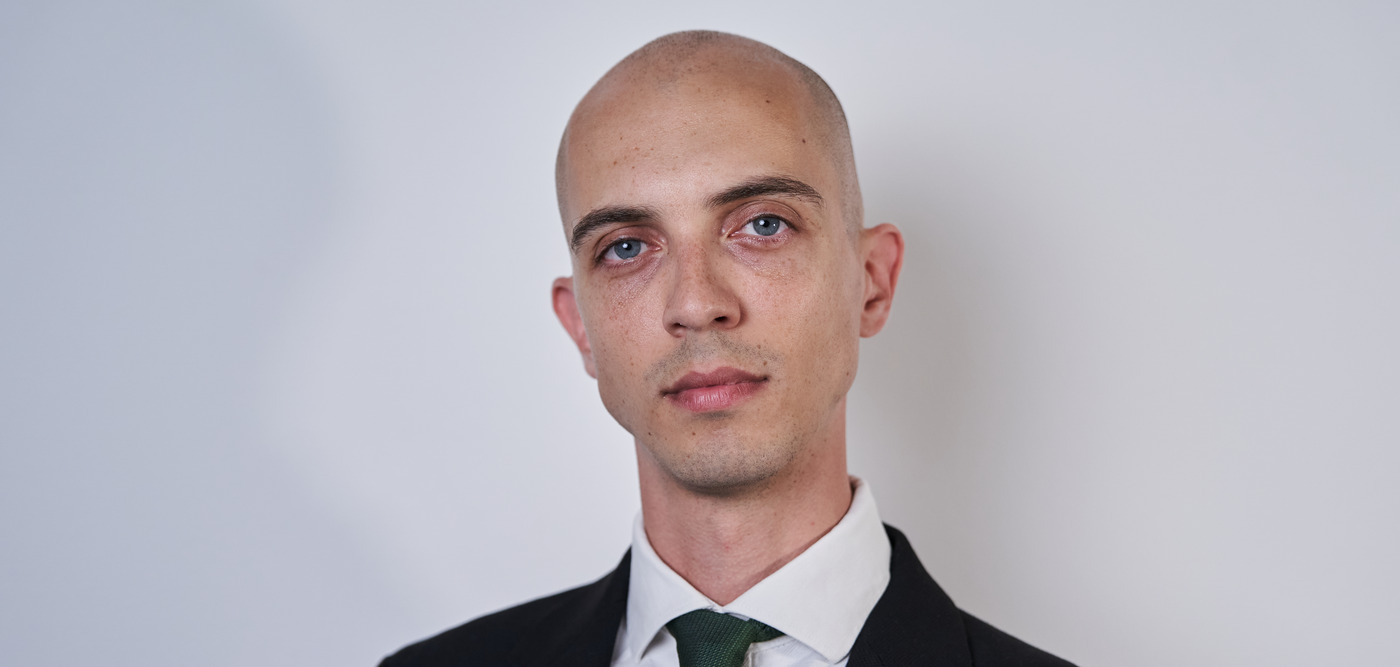
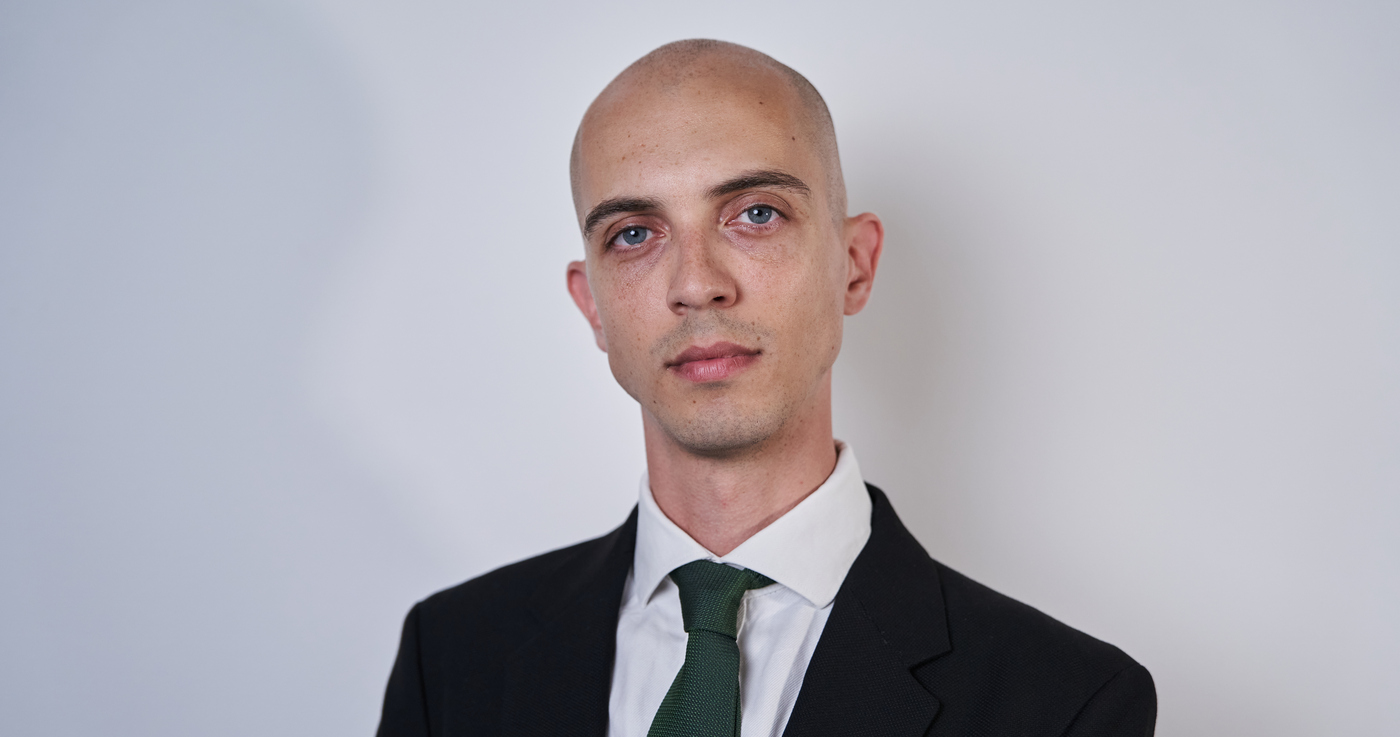
mostly fixed

Changed region(s): [[0.2457, 0.1199, 0.8293, 1.0], [0.43, 0.03, 0.5836, 0.1199]]

diff --git a/cv.tex b/cv.tex
@@ -44,9 +44,9 @@
   \vspace{0.65mm}%
   \noindent
   \begin{tikzpicture}[x=1mm,y=1mm,baseline=-1.6mm]
-    \fill[cvteal] (0,0) -- (7,3.6) -- (0,7.2) -- (2.4,3.6) -- cycle;
+    \fill[cvteal] (0,0) -- (5.7,3.6) -- (0,7.2) -- (2.0,3.6) -- cycle;
   \end{tikzpicture}%
-  \hspace{2mm}{\sans\bfseries\fontsize{14.5}{15.5}\selectfont #1}\par
+  \hspace{1.75mm}{\sans\bfseries\fontsize{14.5}{15.5}\selectfont #1}\par
   \vspace{0.65mm}%
 }
 
@@ -85,8 +85,8 @@
   \noindent
   \begin{minipage}[t]{7mm}\vspace{0pt}#1\end{minipage}%
   \hspace{1.1mm}%
-  \begin{minipage}[t]{44.5mm}\vspace{0pt}\fontsize{7.85}{9.05}\selectfont #2\end{minipage}%
-  \par\vspace{0.18mm}
+  \begin{minipage}[t]{45.0mm}\vspace{0pt}\fontsize{10.2}{14.8}\selectfont #2\end{minipage}%
+  \par\vspace{0.95mm}
 }
 
 \newcommand{\mainsection}[1]{%
@@ -95,7 +95,7 @@
     \textcolor{cvteal}{\rule{0.25\linewidth}{0.65pt}}%
     \hspace{2.1mm}{\color{cvteal}\wide{\fontsize{17.2}{18}\selectfont #1}}%
     \hspace{2.1mm}\textcolor{cvteal}{\rule{0.25\linewidth}{0.65pt}}%
-  }\par\vspace{2.0mm}
+  }\par\vspace{2.9mm}
 }
 
 \newcommand{\entry}[5]{%
@@ -105,15 +105,15 @@
   \vspace{0.7mm}
   {\fontsize{11.0}{12.0}\selectfont #3\textcolor{cvtext}{\ - #4}}\par
   \vspace{0.8mm}
-  {\color{cvtext}\fontsize{9.85}{11.95}\selectfont\justifying #5\par}
+  {\color{cvtext}\fontsize{10.03}{13.55}\selectfont\justifying\noindent #5\par}
 }
 
 \newcommand{\divider}{%
-  \vspace{1.5mm}\noindent\textcolor{cvteal}{\rule{\linewidth}{0.55pt}}\par\vspace{1.5mm}
+  \vspace{1.9mm}\noindent\textcolor{cvteal}{\rule{\linewidth}{0.55pt}}\par\vspace{1.9mm}
 }
 
 \newcommand{\cvitems}{%
-  \begin{itemize}[leftmargin=5.5mm,itemsep=0.35mm,topsep=0.6mm,parsep=0pt]
+  \begin{itemize}[leftmargin=5.5mm,itemsep=0.7mm,topsep=0.85mm,parsep=0pt]
 }
 \newcommand{\cvitemsend}{\end{itemize}}
 
@@ -121,7 +121,7 @@
   \noindent{\fontsize{11.0}{12.0}\selectfont #1}%
   \hfill{\fontsize{11.0}{12.0}\selectfont #2}\par
   \vspace{0.8mm}
-  {\color{cvtext}\fontsize{9.85}{11.95}\selectfont\justifying #3\par}
+  {\color{cvtext}\fontsize{10.03}{13.55}\selectfont\justifying\noindent #3\par}
 }
 
 \begin{document}
@@ -135,25 +135,29 @@
     (0.5,39.2) -- (53.4,39.2) -- (60.1,45.9) -- (60.1,287.7) -- (53.4,294.2) -- (3.0,294.2);
 
   \begin{scope}
-    \clip[rounded corners=4.2mm] (3.0,2.8) rectangle (60.0,29.9);
-    \node[inner sep=0pt] at (31.5,16.35) {\includegraphics[width=57.0mm]{CV_picture_header.jpg}};
+    \clip[rounded corners=4.2mm] (3.0,2.8) rectangle (60.0,33.0);
+    \node[inner sep=0pt] at (31.5,17.9) {\includegraphics[width=62.0mm]{CV_picture_header.jpg}};
   \end{scope}
 
-  \node[anchor=north,text=white,font=\sans\bfseries\fontsize{31}{33}\selectfont] at (135,2.8) {Fabio Vulpi};
-  \node[anchor=north,text=white,font=\sans\bfseries\fontsize{14.6}{15.5}\selectfont] at (135,14.8) {Ph.D. in Mechanical Engineering and Management};
+  \node[anchor=north,text=white,font=\sans\bfseries\fontsize{30.2}{32.3}\selectfont] at (135,3.6) {Fabio Vulpi};
+  \node[anchor=north,text=white,font=\sans\bfseries\fontsize{14.4}{15.3}\selectfont] at (135,14.2) {Ph.D. in Mechanical Engineering and Management};
 
-  \node[anchor=west] at (63.5,23.0) {\headeritem{phone}{tel:+393803485030}{+39 3803485030}};
-  \node[anchor=west] at (121.0,23.0) {\headeritem{map-marker-alt}{}{70124, Bari (BA), Italy}};
-  \node[anchor=west] at (189.0,23.0) {\headeritem{calendar-alt}{}{21/12/1995}};
-  \node[anchor=west] at (63.5,30.0) {\headeritem{linkedin}{https://linkedin.com/in/fabio-vulpi}{\headerlink{https://linkedin.com/in/fabio-vulpi}{linkedin.com/in/fabio-vulpi}}};
-  \node[anchor=west] at (121.0,30.0) {\headeritem{github}{https://github.com/vulpi-f}{\headerlink{https://github.com/vulpi-f}{github.com/vulpi-f}}};
-  \node[anchor=west] at (169.8,30.0) {\headeritem{envelope}{mailto:[email redacted]}{[email redacted]}};
+  \node[anchor=west] at (63.5,25.6) {\headeritem{phone}{tel:+393803485030}{+39 3803485030}};
+  \node[anchor=west] at (121.0,25.6) {\headeritem{map-marker-alt}{}{70124, Bari (BA), Italy}};
+  \node[anchor=west] at (189.0,25.6) {\headeritem{calendar-alt}{}{21/12/1995}};
+  \node[anchor=west] at (63.5,31.8) {\headeritem{linkedin}{https://linkedin.com/in/fabio-vulpi}{\headerlink{https://linkedin.com/in/fabio-vulpi}{linkedin.com/in/fabio-vulpi}}};
+  \node[anchor=west] at (121.0,31.8) {\headeritem{github}{https://github.com/vulpi-f}{\headerlink{https://github.com/vulpi-f}{github.com/vulpi-f}}};
+  \node[anchor=west] at (169.8,31.8) {\headeritem{envelope}{mailto:[email redacted]}{[email redacted]}};
 
-  \node[anchor=north west,inner sep=0pt] at (3.0,39.2) {%
-    \begin{minipage}[t]{53.6mm}
+  \node[anchor=north west,inner sep=0pt] at (2.35,39.2) {%
+    \begin{minipage}[t]{55.0mm}
       \sideheading{ABOUT ME}
       {\fontsize{9.85}{12.05}\selectfont
-      Daring and versatile, I firmly believe that attaining successful outcomes relies on both the ability to ask pertinent questions and the commitment to finding the answers.\par}
+      Daring and versatile, I firmly believe\\
+      that attaining successful outcomes\\
+      relies on both the ability to ask\\
+      pertinent questions and the\\
+      commitment to finding the answers.\par}
 
       \sideheading{SOFT-SKILLS}
       {\fontsize{9.9}{11.1}\selectfont
@@ -187,12 +191,12 @@
       \langbar{Deutsch}{A 2}{15.0}
 
       \sideheading{PUBLICATIONS}
-      \publication{\orcidicon}{Kalman Supervised Network for improved Model Predictions.}
-      \publication{\pubicon}{Recurrent and convolutional NN for deep terrain classification by autonomous robots.}
-      \publication{\pubicon}{An RGB-D multi-view perspective for autonomous agricultural robots.}
-      \publication{\pubicon}{On the role of feature and signal selection for terrain learning in planetary exploration.}
-      \publication{\pubicon}{Usability Study of WISE for Movement Assessment and Exercise.}
-      \publication{\pubicon}{Wearable Inertial Sensors for Range of Motion Assessment (WISE).}
+      \publication{\orcidicon}{Kalman Supervised Network for\\ improved Model Predictions.}
+      \publication{\pubicon}{Recurrent and convolutional\\ NN for deep terrain\\ classification by autonomous\\ robots.}
+      \publication{\pubicon}{An RGB-D multi-view\\ perspective for autonomous\\ agricultural robots.}
+      \publication{\pubicon}{On the role of feature and\\ signal selection for terrain\\ learning in planetary\\ exploration.}
+      \publication{\pubicon}{Usability Study of WISE for\\ Movement Assessment and\\ Exercise.}
+      \publication{\pubicon}{Wearable Inertial Sensors for\\ Range of Motion Assessment\\ (WISE).}
     \end{minipage}};
 
   \node[anchor=north west,inner sep=0pt] at (63.4,38.8) {%